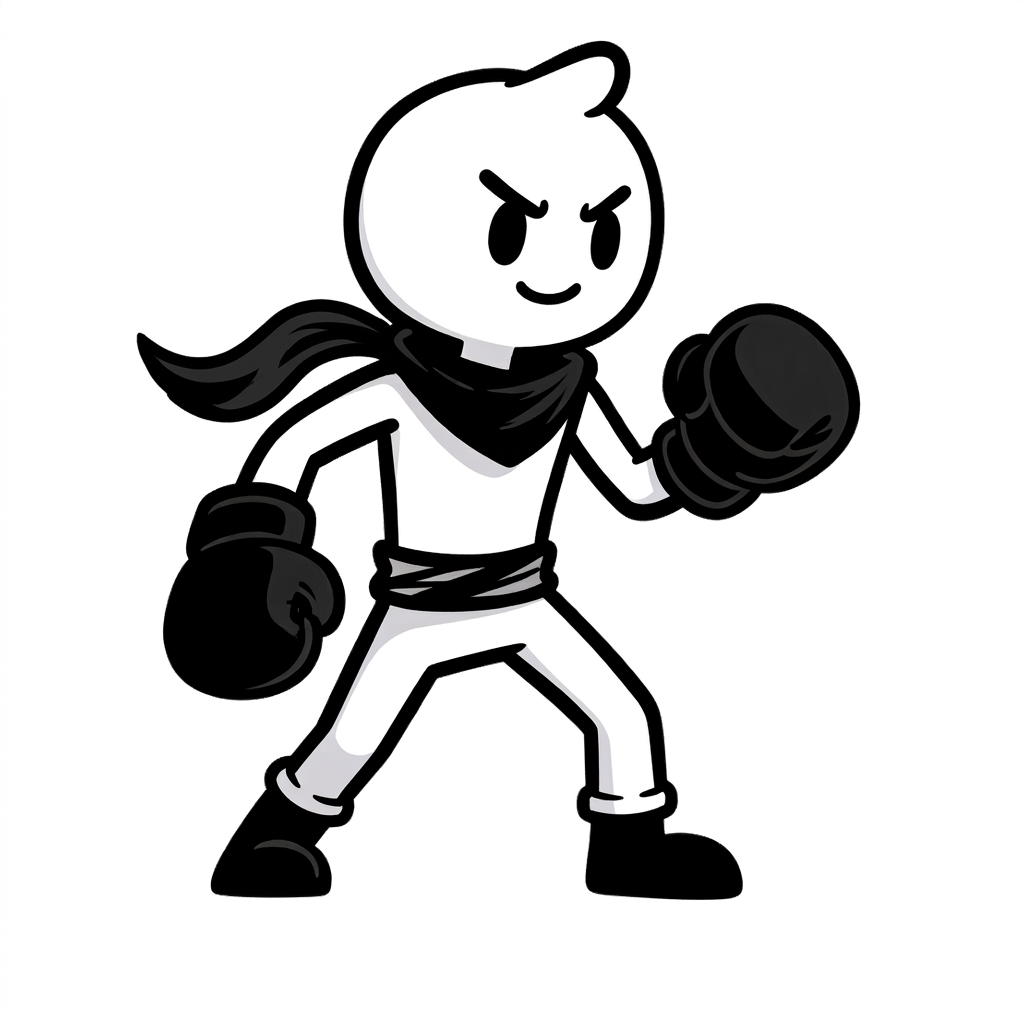
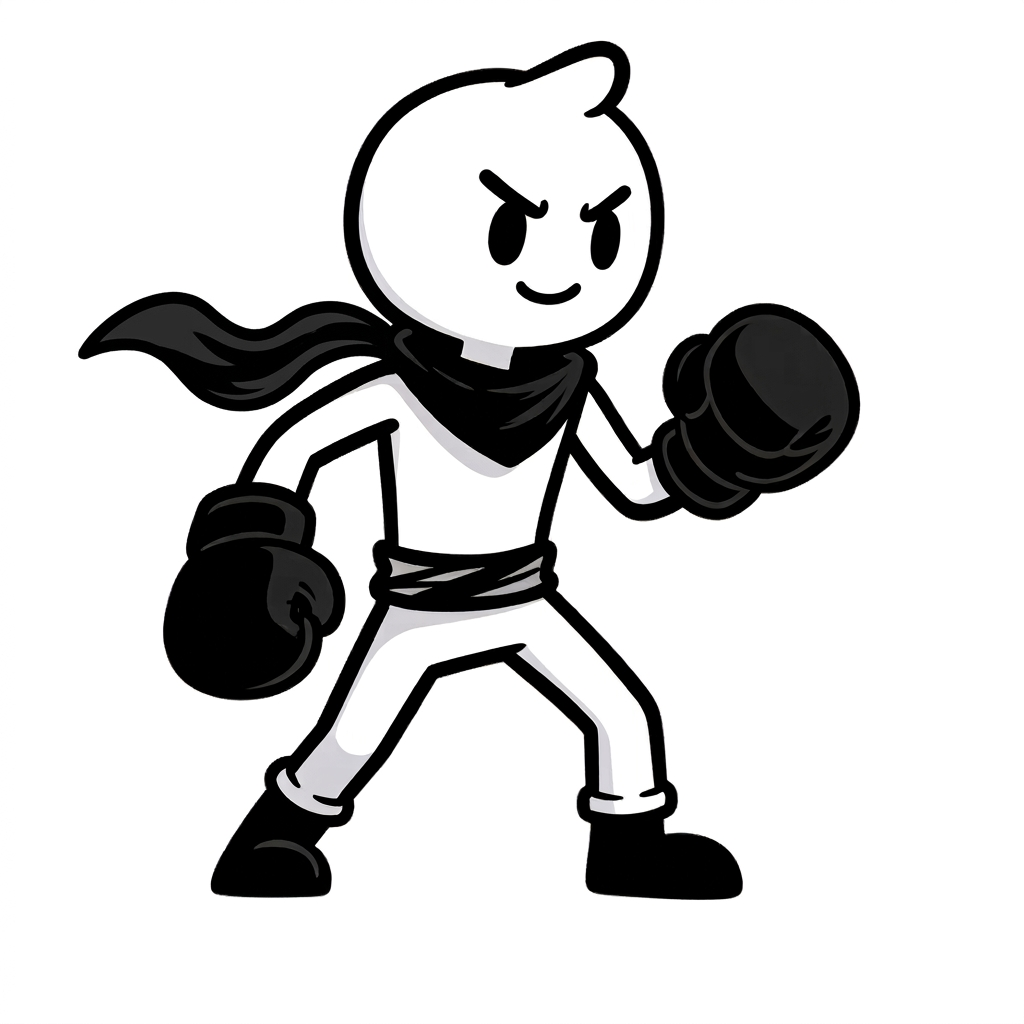
feat(anim): player idle in-between 002 to 003 (5 to 6, matches the rival)

Changed region(s): [[0.0625, 0.2812, 0.375, 0.4375]]

diff --git a/test/game_feel_test.dart b/test/game_feel_test.dart
@@ -202,7 +202,7 @@ void main() {
         tick(game, 1);
       }
       expect(game.match.stateOf(FighterId.player).action, FighterAction.idle);
-      expect(player.animation!.frames, hasLength(5));
+      expect(player.animation!.frames, hasLength(6));
     });
 
     test(
@@ -210,10 +210,10 @@ void main() {
       () async {
         final game = await loadedGame();
         pastCountdown(game);
-        // Four keyframes plus the loop-seam in-between (prompt pack §5); the
-        // rival also has the 002 → 003 one, the player's is still to come.
+        // Four keyframes plus two in-betweens (prompt pack §5): 002 → 003 and
+        // the loop seam, for both fighters.
         for (final (fighter, frames) in [
-          (playerOf(game), 5),
+          (playerOf(game), 6),
           (rivalOf(game), 6),
         ]) {
           expect(fighter.animation!.frames, hasLength(frames));

diff --git a/tool/process_character_assets.py b/tool/process_character_assets.py
@@ -39,6 +39,10 @@ FOOT_REGISTERED: dict[str, tuple[str, str]] = {
         "player_ink_fighter_heavy_kick_001.png",
         "player_ink_fighter_heavy_kick_003.png",
     ),
+    "player_ink_fighter_idle_003.png": (
+        "player_ink_fighter_idle_002.png",
+        "player_ink_fighter_idle_004.png",
+    ),
 }
 
 

diff --git a/docs/product/AI_CHARACTER_PROMPT_PACK.md b/docs/product/AI_CHARACTER_PROMPT_PACK.md
@@ -45,9 +45,11 @@ The following action descriptions are appended one at a time to the universal fr
 - `idle_004`: return to the exact neutral ready stance, matching frame 000.
 - `idle_005` — **in-between, loop seam (004 → 000)**: idle loop-seam in-between with the same ready stance, face, gloves and feet as both neighbouring frames; the long black scarf tail falls back halfway toward the short resting flick of frame 000, with a tiny exhale in the chest, so the idle loop closes without a pop.
 
-`bot_crimson_rival` has all six. `player_ink_fighter` has five until its
-002 → 003 in-between passes the gate (§5b): its `idle_003` is the neutral
-return and `idle_004` the seam.
+Both fighters have all six. For the player, the `idle_003` prompt sends the
+scarf tail out horizontally to the left at shoulder height, never above the
+shoulders. The delivered one is a touch longer than frame 004's, which reads as
+the scarf flicking out and settling. It is foot-registered (§5b), so the body
+does not move.
 
 ### Walk — 8 frames (6 keyframes + 2 in-betweens, one per half-stride)
 
@@ -233,7 +235,7 @@ step / mean silhouette change, before → after):
 
 | Cycle | player | rival |
 |---|---|---|
-| idle | 13 px / 0.11 → 13 px / 0.09 (seam only) | 43 px / 0.23 → 29 px / 0.18 |
+| idle | 13 px / 0.11 → 12 px / 0.08 (seam + 002 → 003, registered) | 43 px / 0.23 → 29 px / 0.18 |
 | walk | 8 px / 0.18 → 8 px / 0.15 | 40 px / 0.25 → 42 px / 0.22 |
 | light punch | 86 px / 0.28 → 52 px / 0.29 | 35 px / 0.25 → 42 px / 0.22 |
 | hurt | 56 px / 0.68 → 72 px / 0.52 ¹ | 14 px / 0.33 → 49 px / 0.26 ¹ |
@@ -266,7 +268,9 @@ distance 0.00). Name the pose's geometry and say "not a copy of either input".
 The second attempt drew the right pose, but plain centring put its planted foot
 96 px past the extension frame's (foot path 299 → 472 → 376 px), a
 forward-and-back lurch in the wind-up. That is the case foot registration
-exists for, and it is the frame that landed.
+exists for, and it is the frame that landed. So is the fifth idle attempt:
+registered, its body stays put (the loop's largest head step is 12 px) and the
+slightly long scarf reads as a flick.
 
 **Haze.** A generation can leave a faint grey ground smudge under a lifted foot
 (the rival's `walk_002` did). `tool/process_character_assets.py` now clears any
